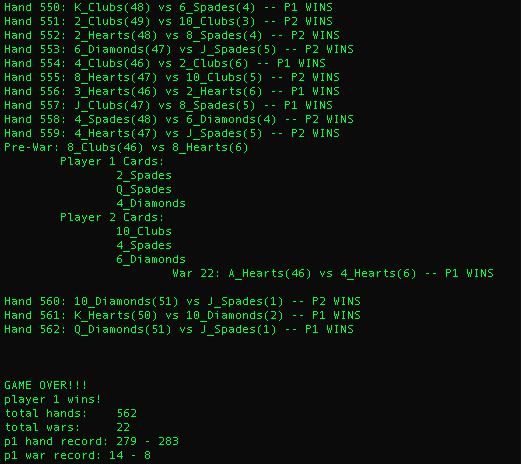
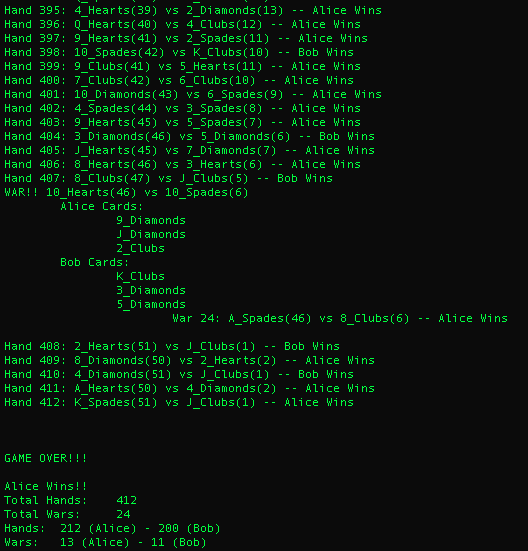
update war

Changed region(s): [[0.0, 0.0, 0.7985, 0.7543], [0.0, 0.8147, 0.4299, 0.9957], [0.8292, 0.5733, 0.952, 0.6034]]

diff --git a/Posts/python_war.html b/Posts/python_war.html
@@ -40,7 +40,7 @@ h3 {
 </p>
 
 <figure style="float:right">
-   <img src="../i/python_war.png" alt="Sample Output" style="height:500px;">
+   <img src="../i/python_war.png" alt="Sample Output" style="width:500px;">
    <figcaption> <br>
      Sample Output of a Match
    </figcaption>

diff --git a/ad_hoc/python_war.py b/ad_hoc/python_war.py
@@ -19,9 +19,17 @@ val_dict = {
     }
 
 def initiate():
-    deal_cards(suits, val_dict)
+    print '\n\n'
+    p1_prompt = "Player 1 Name: "
+    p1_name = raw_input(p1_prompt)
 
-def deal_cards(suits, val_dict):
+    p2_prompt = "Player 2 Name: "
+    p2_name = raw_input(p2_prompt)
+
+    print '\nReady?'
+    deal_cards(suits, val_dict, p1_name, p2_name)
+
+def deal_cards(suits, val_dict, p1_name, p2_name):
     total_hands = 0
     p1_hands = 0
     p2_hands = 0
@@ -47,33 +55,33 @@ def deal_cards(suits, val_dict):
         else:
             player_2_hand.append(card_val)
 
-    play_hand(player_1_hand, player_2_hand, total_hands, p1_hands, p2_hands, total_wars, p1_wars, p2_wars)
+    play_hand(player_1_hand, player_2_hand, total_hands, p1_hands, p2_hands, total_wars, p1_wars, p2_wars, p1_name, p2_name, False)
 
-def play_hand(player_1_hand, player_2_hand, total_hands, p1_hands, p2_hands, total_wars, p1_wars, p2_wars):
+def play_hand(player_1_hand, player_2_hand, total_hands, p1_hands, p2_hands, total_wars, p1_wars, p2_wars, p1_name, p2_name, finish):
     if (total_hands+5*total_wars) > 899:
         print '\n\n\nDRAW! (too many hands played)'
-        print 'total hands:\t', total_hands
-        print 'total wars:\t', total_wars
-        print 'p1 hand record:\t', p1_hands, '-', p2_hands
-        print 'p1 war record:\t', p1_wars, '-', p2_wars
+        print 'Total Hands:\t', total_hands
+        print 'Total Wars:\t', total_wars
+        print 'Hands:\t', p1_hands, '('+p1_name+')', '-', p2_hands, '('+p2_name+')'
+        print 'Wars:\t', p1_wars, '('+p1_name+')', '-', p2_wars, '('+p2_name+')'
         print '\n\n'
         return None
 
     if (player_1_hand==[] or player_2_hand==[]):
-        print '\n\n\nGAME OVER!!!'
+        print '\n\n\nGAME OVER!!!\n'
         if player_2_hand==[]:
-            print 'player 1 wins!'
-            print 'total hands:\t', total_hands
-            print 'total wars:\t', total_wars
-            print 'p1 hand record:', p1_hands, '-', p2_hands
-            print 'p1 war record:', p1_wars, '-', p2_wars
+            print '%s Wins!!' % (p1_name)
+            print 'Total Hands:\t', total_hands
+            print 'Total Wars:\t', total_wars
+            print 'Hands:\t', p1_hands, '('+p1_name+')', '-', p2_hands, '('+p2_name+')'
+            print 'Wars:\t', p1_wars, '('+p1_name+')', '-', p2_wars, '('+p2_name+')'
             print '\n\n'
         elif player_1_hand==[]:
-            print 'player 2 wins!'
-            print 'total hands:\t', total_hands
-            print 'total wars:\t', total_wars
-            print 'p2 hand record:\t', p2_hands, '-', p1_hands
-            print 'p2 war record:\t', p2_wars, '-', p1_wars
+            print '%s Wins!!' % (p2_name)
+            print 'Total Hands:\t', total_hands
+            print 'Total Wars:\t', total_wars
+            print 'Hands:\t', p1_hands, '('+p1_name+')', '-', p2_hands, '('+p2_name+')'
+            print 'Wars:\t', p1_wars, '('+p1_name+')', '-', p2_wars, '('+p2_name+')'
             print '\n\n'
         return None
         
@@ -87,34 +95,42 @@ def play_hand(player_1_hand, player_2_hand, total_hands, p1_hands, p2_hands, tot
         p1_val = val_dict.get(p1_card.split('_')[0])
         p2_val = val_dict.get(p2_card.split('_')[0])
 
-        # raw_input("")
+        if finish is False:
+            fin = raw_input("")
+            if fin != "":
+                finish = True
+
+
         if p1_val > p2_val:
             total_hands += 1
-            print 'Hand %s: %s(%s) vs %s(%s) -- P1 WINS' % (total_hands, p1_card, len(player_1_hand)+1, p2_card, len(player_2_hand)+1)
+            print 'Hand %s: %s(%s) vs %s(%s) -- %s Wins' % (total_hands, p1_card, len(player_1_hand)+1, p2_card, len(player_2_hand)+1, p1_name)
             p1_hands += 1
             player_1_hand.append(p1_card)
             player_1_hand.append(p2_card)
-            play_hand(player_1_hand, player_2_hand, total_hands, p1_hands, p2_hands, total_wars, p1_wars, p2_wars)
+            play_hand(player_1_hand, player_2_hand, total_hands, p1_hands, p2_hands, total_wars, p1_wars, p2_wars, p1_name, p2_name, finish)
         elif p1_val < p2_val:
             total_hands += 1
-            print 'Hand %s: %s(%s) vs %s(%s) -- P2 WINS' % (total_hands, p1_card, len(player_1_hand)+1, p2_card, len(player_2_hand)+1)
+            print 'Hand %s: %s(%s) vs %s(%s) -- %s Wins' % (total_hands, p1_card, len(player_1_hand)+1, p2_card, len(player_2_hand)+1, p2_name)
             p2_hands += 1
             player_2_hand.append(p1_card)
             player_2_hand.append(p2_card)
-            play_hand(player_1_hand, player_2_hand, total_hands, p1_hands, p2_hands, total_wars, p1_wars, p2_wars)
+            play_hand(player_1_hand, player_2_hand, total_hands, p1_hands, p2_hands, total_wars, p1_wars, p2_wars, p1_name, p2_name, finish)
         elif (len(player_1_hand)<2):
-            play_hand([], player_2_hand, total_hands, p1_hands, p2_hands, total_wars, p1_wars, p2_wars)
+            play_hand([], player_2_hand, total_hands, p1_hands, p2_hands, total_wars, p1_wars, p2_wars, p1_name, p2_name, finish)
         elif (len(player_2_hand)<2):
-            play_hand(player_1_hand, [], total_hands, p1_hands, p2_hands, total_wars, p1_wars, p2_wars)
+            play_hand(player_1_hand, [], total_hands, p1_hands, p2_hands, total_wars, p1_wars, p2_wars, p1_name, p2_name, finish)
         else:
-            war(player_1_hand, player_2_hand, p1_card, p2_card, total_hands, p1_hands, p2_hands, total_wars, p1_wars, p2_wars, [], [])
+            war(player_1_hand, player_2_hand, p1_card, p2_card, total_hands, p1_hands, p2_hands, total_wars, p1_wars, p2_wars, [], [], p1_name, p2_name, finish)
 
-def war(player_1_hand, player_2_hand, p1_card, p2_card, total_hands, p1_hands, p2_hands, total_wars, p1_wars, p2_wars, p1_pre_war, p2_pre_war):
+def war(player_1_hand, player_2_hand, p1_card, p2_card, total_hands, p1_hands, p2_hands, total_wars, p1_wars, p2_wars, p1_pre_war, p2_pre_war, p1_name, p2_name, finish):
 
     if (p1_pre_war == [] and p2_pre_war == []):
-        print 'Pre-War: %s(%s) vs %s(%s)' % (p1_card, len(player_1_hand)+1, p2_card, len(player_2_hand)+1)
+        print 'WAR!! %s(%s) vs %s(%s)' % (p1_card, len(player_1_hand)+1, p2_card, len(player_2_hand)+1)
 
-    # raw_input("")
+    if finish is False:
+        fin = raw_input("")
+        if fin != "":
+            finish = True
 
     if len(player_1_hand) < 5:
         p1_cards = player_1_hand[0:(len(player_1_hand)-1)]
@@ -134,11 +150,11 @@ def war(player_1_hand, player_2_hand, p1_card, p2_card, total_hands, p1_hands, p
     p1_war_card = player_1_hand[0]
     p2_war_card = player_2_hand[0]
 
-    print '\tPlayer 1 Cards:'
+    print '\t%s Cards:' % (p1_name)
     for c in p1_cards:
         print '\t\t', c
 
-    print '\tPlayer 2 Cards:'
+    print '\t%s Cards:' % (p2_name)
     for c in p2_cards:
         print '\t\t', c
 
@@ -150,7 +166,7 @@ def war(player_1_hand, player_2_hand, p1_card, p2_card, total_hands, p1_hands, p
 
     if p1_val > p2_val:
         # os.system('say "CULT OF THE V 8"')
-        print '\t\t\tWar %s: %s(%s) vs %s(%s) -- P1 WINS\n' % (total_wars+1, p1_war_card, len(player_1_hand)+len(p1_cards)+len(p1_pre_war)+2, p2_war_card, len(player_2_hand)+len(p2_cards)+len(p2_pre_war)+2)
+        print '\t\t\tWar %s: %s(%s) vs %s(%s) -- %s Wins\n' % (total_wars+1, p1_war_card, len(player_1_hand)+len(p1_cards)+len(p1_pre_war)+2, p2_war_card, len(player_2_hand)+len(p2_cards)+len(p2_pre_war)+2, p1_name)
         total_wars += 1
         p1_wars += 1
 
@@ -167,10 +183,10 @@ def war(player_1_hand, player_2_hand, p1_card, p2_card, total_hands, p1_hands, p
         player_1_hand.append(p2_card)
         player_1_hand.append(p1_war_card)
         player_1_hand.append(p2_war_card)
-        play_hand(player_1_hand, player_2_hand, total_hands, p1_hands, p2_hands, total_wars, p1_wars, p2_wars)
+        play_hand(player_1_hand, player_2_hand, total_hands, p1_hands, p2_hands, total_wars, p1_wars, p2_wars, p1_name, p2_name, finish)
     elif p1_val < p2_val:
         # os.system('say "CULT OF THE V 8"')
-        print '\t\t\tWar %s: %s(%s) vs %s(%s) -- P2 WINS\n' % (total_wars+1, p1_war_card, len(player_1_hand)+len(p1_cards)+len(p1_pre_war)+2, p2_war_card, len(player_2_hand)+len(p2_cards)+len(p2_pre_war)+2)
+        print '\t\t\tWar %s: %s(%s) vs %s(%s) -- %s Wins\n' % (total_wars+1, p1_war_card, len(player_1_hand)+len(p1_cards)+len(p1_pre_war)+2, p2_war_card, len(player_2_hand)+len(p2_cards)+len(p2_pre_war)+2, p2_name)
         total_wars += 1
         p2_wars += 1
 
@@ -187,13 +203,13 @@ def war(player_1_hand, player_2_hand, p1_card, p2_card, total_hands, p1_hands, p
         player_2_hand.append(p2_card)
         player_2_hand.append(p1_war_card)
         player_2_hand.append(p2_war_card)
-        play_hand(player_1_hand, player_2_hand, total_hands, p1_hands, p2_hands, total_wars, p1_wars, p2_wars)
+        play_hand(player_1_hand, player_2_hand, total_hands, p1_hands, p2_hands, total_wars, p1_wars, p2_wars, p1_name, p2_name, finish)
     elif (len(player_1_hand)<2):
-        play_hand([], player_2_hand, total_hands, p1_hands, p2_hands, total_wars, p1_wars, p2_wars)
+        play_hand([], player_2_hand, total_hands, p1_hands, p2_hands, total_wars, p1_wars, p2_wars, p1_name, p2_name, finish)
     elif (len(player_2_hand)<2):
-        play_hand(player_1_hand, [], total_hands, p1_hands, p2_hands, total_wars, p1_wars, p2_wars)
+        play_hand(player_1_hand, [], total_hands, p1_hands, p2_hands, total_wars, p1_wars, p2_wars, p1_name, p2_name, finish)
     else:
-        print 'Pre-Mega War: %s(%s) vs %s(%s)' % (p1_war_card, len(player_1_hand)+len(p1_cards)+len(p1_pre_war)+2, p2_war_card, len(player_2_hand)+len(p2_cards)+len(p2_pre_war)+2)
+        print 'MEGA WAR!!! %s(%s) vs %s(%s)' % (p1_war_card, len(player_1_hand)+len(p1_cards)+len(p1_pre_war)+2, p2_war_card, len(player_2_hand)+len(p2_cards)+len(p2_pre_war)+2)
         p1_war_cards = []
         p2_war_cards = []
 
@@ -209,7 +225,7 @@ def war(player_1_hand, player_2_hand, p1_card, p2_card, total_hands, p1_hands, p
             p2_war_cards.append(c)
         p2_war_cards.append(p2_war_card)
 
-        war(player_1_hand, player_2_hand, p1_war_card, p2_war_card, total_hands, p1_hands, p2_hands, total_wars, p1_wars, p2_wars, p1_war_cards, p2_war_cards)
+        war(player_1_hand, player_2_hand, p1_war_card, p2_war_card, total_hands, p1_hands, p2_hands, total_wars, p1_wars, p2_wars, p1_war_cards, p2_war_cards, p1_name, p2_name, finish)
 
 
 if __name__ == "__main__":     
